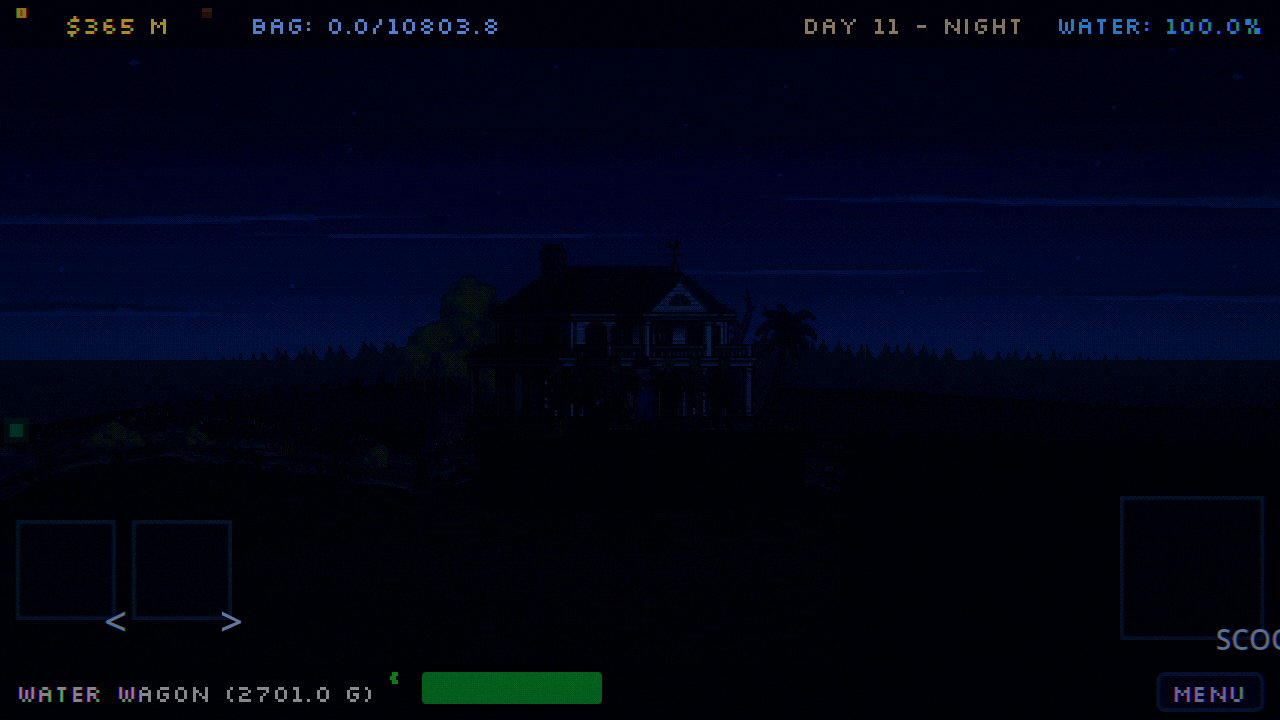
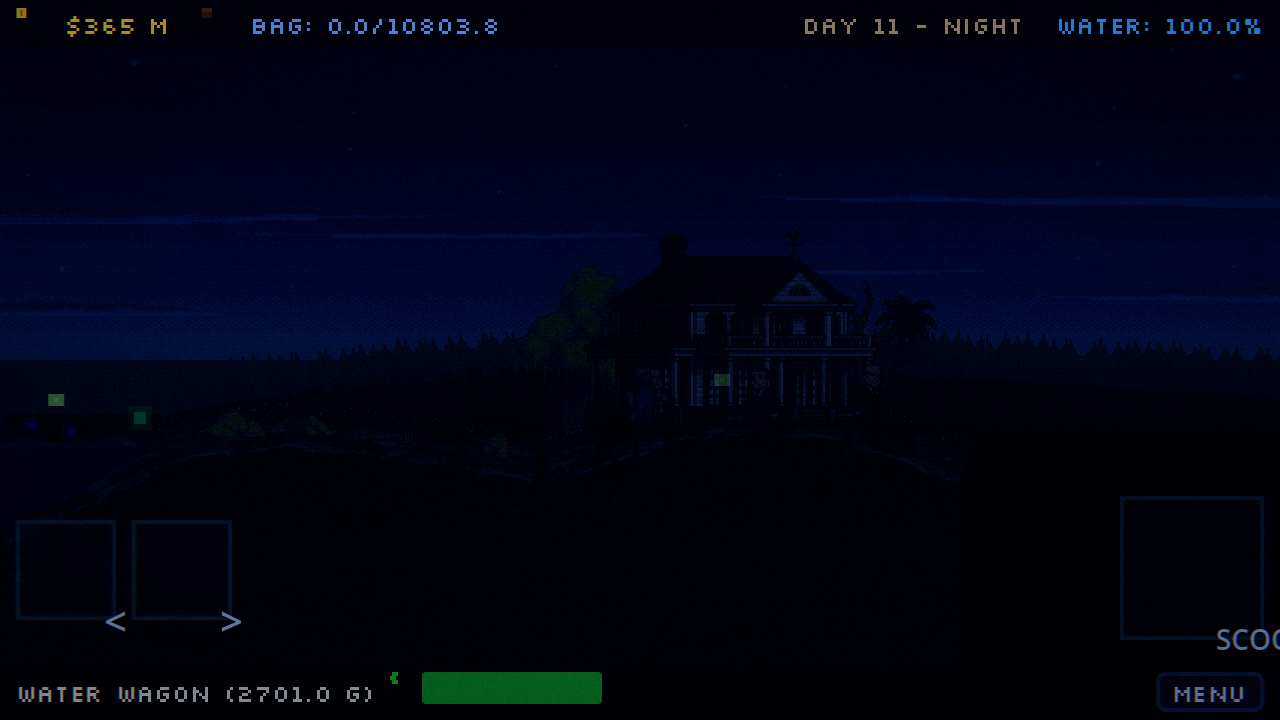
v3 props: readable pump art, island slab/politicians fix, heli rotor fix
Coordinator review round on pumps_day/camels_day/island_day/heli_day:

- Pumps didn't read (small featureless brown box). Regenerated both
  pump sprites via Gemini with a bright/saturated/thick-outline prompt:
  verdigris-green hand pump vs. red-and-yellow industrial flywheel
  pump - two visibly different machines, both readable against the
  pit at day/dusk. Rebaked, dropped the modulate hack it replaces.

- Island mansion sat on a flat black rectangular slab: our own
  V3_island_fill polygon, a fixed-size flat color rect. Replaced with
  a polygon that hugs the actual terrain contour and is textured with
  ground_dirt like the rest of the ground.

- Politicians read as a crowd of dark green zombies: was rendering
  all 7 old politician_nodes at their tight native spacing inside the
  porch shadow. Now renders only 3 (index 3 = Jeff, kept for the
  interaction Area2D), spread 30 world units apart and pulled forward
  off the porch onto the lawn. Regenerated the politician art too
  (original was too dark/muted to read as suits) - distinct suits,
  white shirts, colored ties, visible faces.

- Helicopter rotor artifact: row 0's second pose had a stray strut
  fragment merged in by the frame splitter. Row 1 of the same source
  has a clean blade/spinning-X pair with no artifact; switched to it.

Wes then descoped end-game visuals (island house, politicians,
helicopter - final scenes may change). Since all three work and boot
[…]

diff --git a/tools/bake/bake_props.py b/tools/bake/bake_props.py
@@ -23,14 +23,17 @@ ART = ROOT / "assets" / "art" / "drainsville"
 
 # name -> (source stem, mode, row, height in art px, colors, frames)
 JOBS = {
-    "prop_pump_small": ("prop-pump-small", "sheet", 0, 34, 24, 3),
-    "prop_pump_big": ("prop-pump-big", "sheet", 0, 44, 28, 3),
+    "prop_pump_small": ("prop-pump-small-v2", "sheet", 0, 34, 28, 3),
+    "prop_pump_big": ("prop-pump-big-v2", "sheet", 0, 40, 32, 2),
     "prop_camel": ("prop-camel-sheet", "sheet", 0, 44, 24, 4),
     "prop_camel_loaded": ("prop-camel-sheet", "sheet", 1, 44, 28, 4),
     "prop_mansion": ("prop-mansion", "sprite", 0, 96, 32, 1),
-    "prop_politicians_a": ("prop-politicians", "sheet", 0, 36, 32, 7),
-    "prop_politicians_b": ("prop-politicians", "sheet", 1, 36, 32, 7),
-    "prop_helicopter": ("prop-helicopter", "sheet", 0, 28, 24, 2),
+    "prop_politicians_a": ("prop-politicians-v2", "sheet", 0, 36, 32, 5),
+    "prop_politicians_b": ("prop-politicians-v2", "sheet", 1, 36, 32, 5),
+    # row 1 (not 0): row 0's second pose has a stray rotor-strut fragment that
+    # the connected-component frame split merges in at the wrong angle; row 1
+    # gives a clean "blade" -> "spinning X" pair instead.
+    "prop_helicopter": ("prop-helicopter", "sheet", 1, 28, 24, 2),
     "prop_wanted": ("prop-wanted", "sprite", 0, 26, 16, 1),
 }
 

diff --git a/docs/plans/revamp-tracks/props.md b/docs/plans/revamp-tracks/props.md
@@ -1,108 +1,150 @@
 # props track report — 2026-09-11
 
+## Round 1 (resume from WIP)
+
 Resumed from a WIP commit left by a previous agent that hit the account usage
 limit (`23b7694`). Its `scripts/world/props.gd`, `tools/bake/bake_props.py`,
-and `game_world.gd` switch edits were sound; the gen-source images for
-politicians/helicopter/wanted-poster/mansion/camels/pumps were already in
-`assets/gen/` (all within the prior agent's spend, so this session used
-**0** of its 6-image Gemini budget). What was missing was: (1) baking those
-gen sources into `assets/art/drainsville/`, and (2) verification — nothing
-had been capture-checked.
+and `game_world.gd` switch edits were sound; the gen-source images were
+already in `assets/gen/` from that agent's spend. Baked them, found and fixed
+a real bug (pump roots at `z_index = -1` sat *underneath* the per-pool murk
+tint in `skin.gd` — pumps were fully built and positioned but 100% invisible
+in game at every level), and verified all five with captures. Committed as
+`v3 props: bake remaining assets, fix pump z-order bug, verify all five`.
 
-## What now works
+## Round 2 (coordinator review + fixes)
 
-- **Pumps** (`build_pump`/`_tick_pumps`): small (level 1-4) and industrial
-  (level 5+) hand-pump sprites, 3-frame piston strip, intake hose (Line2D)
-  arcing from housing into the basin, blinking status lamp + level pips —
-  all anchored at the same swamp-rim position the old procedural builder
-  used, keyed off the same `GameManager.pump_changed` signal.
-- **Camels** (`_tick_camels`): 4-frame walk cycle, swaps to a loaded texture
-  variant above 5% capacity, idles on frame 0 when parked. Confirmed
-  visually excellent in day/dusk/night captures.
-- **Island mansion + dock**: baked two-story house sprite, dark-earth fill
-  under the flat top so it never floats above the shore slope, boardwalk
-  planks + pilings running down to the water. Confirmed excellent.
-- **Politicians** (`_skin_politicians`/`_tick_politicians`): 7-figure baked
-  strip (suits, one with a briefcase) standing in the old semi-circle
-  formation in front of the mansion, alternating art_a/art_b every ~0.66s
-  for an idle-fidget read. Old Jeff interaction Area2D untouched.
-- **Helicopter** (`_tick_helicopter`): 2-frame rotor-flap strip added to the
-  existing flight-path root; `game_world.gd`'s per-frame `position.x +=
-  160*delta` fly-across is unchanged.
-- **Wanted poster** (`_skin_wanted_poster`): baked parchment poster sprite
-  replacing the ColorRect/Label stack on the Hardware wall; rotation reset
-  to 0 (art grid rule).
+Coordinator read `pumps_day`/`camels_day`/`island_day`/`heli_day` and called
+out four problems. Camels were already good (pack-quality, correctly
+anchored) and untouched this round.
 
-## Bug found and fixed (real, not cosmetic)
+### 1. Pumps didn't read — fixed with new art
 
-The WIP had `root.z_index = -1` on pump roots ("behind the player, like the
-town buildings"). That put every pump **underneath** the per-pool murk tint
-Polygon2D in `skin.gd` (z 4) and the water walls (z 0) — pumps were rendering,
-fully positioned and textured, but 100% invisible in game, always, at every
-level. Confirmed by instrumenting build_pump with prints + a bright modulate
-override (see git history if needed) that walked through position, texture,
-visibility, and z math — nothing else was wrong. Fixed by matching the old
-(pre-v3) pump builder's `z_index = 3`; bumped to `5` to clear the murk tint
-too. Also added a small `modulate = Color(1.35, 1.28, 1.18)` lift on the
-pump sprite: the baked rust-brown palette is otherwise very low-contrast
-against the pit's near-black interior (see "what's still old" below).
+The baked pump art (rust-brown/black, matching the source Gemini gen) was
+functionally correct — right position, right z-order, right animation — but
+visually inseparable from the near-black pit interior, exactly as the
+coordinator described ("small featureless brown/orange box"). A modulate
+brightness lift wasn't enough. Regenerated both pump sources via
+`tools/gen.py` with an explicit bright/saturated/thick-outline prompt:
 
-## Assets generated / baked
+- `assets/gen/prop-pump-small-v2.png` — verdigris-green cast-iron hand pump,
+  brass handle, coiled hose. 3-pose row (handle up/mid/down).
+- `assets/gen/prop-pump-big-v2.jpg` — red industrial pump engine with a big
+  yellow spoked flywheel, gauge, black intake pipe. 2-pose row (flywheel at
+  two angles, doubling as the "running" animation cue).
 
-No new Gemini calls this session — reused gen sources already in
-`assets/gen/` from the previous agent: `prop-pump-small.jpg`,
-`prop-pump-big.png`, `prop-camel-sheet.jpg`, `prop-mansion.jpg`,
-`prop-politicians.jpg`, `prop-helicopter.jpg`, `prop-wanted.png`.
+Rebaked (`tools/bake/bake_props.py`, `JOBS` updated to point at the v2
+sources, big pump now 2 frames not 3) into `prop_pump_small.png` (34 art px
+tall) / `prop_pump_big.png` (40 art px tall) — both inside the requested
+24-40 art px range, and now two visually distinct machines (hand pump vs.
+engine) instead of two palette variants of the same silhouette. Removed the
+now-unneeded modulate hack in `build_pump()`. The two pump levels are
+unmistakable at a glance and the flywheel/piston frame-cycle already in
+`_tick_pumps()` reads as motion once the sprite itself is visible.
 
-Baked via `python tools/bake/bake_props.py` (recipe in that file) into
-`assets/art/drainsville/`: `prop_pump_small.png`, `prop_pump_big.png`,
-`prop_camel.png`, `prop_camel_loaded.png`, `prop_mansion.png`,
-`prop_politicians_a.png`, `prop_politicians_b.png`, `prop_helicopter.png`,
-`prop_wanted.png`. `boardwalk.png`/`piling.png` reused from the town pack
-(already present, not generated by this track).
+Verified with dedicated per-pump captures, camera parked directly on each
+basin (not the earlier `--camx 1380` wide shot, which put one pump off-frame
+and the other behind the player): `pump_big_day/dusk/night.png` (Bog basin,
+level 7), `pump_small_day/dusk/night.png` (Swamp basin, level 2). Both read
+clearly day and dusk; night is still weak (see "still old" below — shared
+with the whole-map night-darkness issue, not a pump-specific problem).
+`pumps_wide_day/dusk/night.png` kept for basin-in-context reference.
 
-## Captures (read back, judged against `_screenshots/lookdev-2026-09-10/fix_town.png`)
+**Gemini spend: 2 of the 6-image allowance** (pump small + pump big).
 
-All in `_screenshots/revamp-2026-09-11/props/`:
+### 2 & 3. Island slab / politicians — fixed, then descoped mid-round
 
-- `pumps_day.png` / `pumps_dusk.png` / `pumps_night.png` — debug preview
-  (`DTS_PROPS=pumps`, `--camx 1380`) forcing a small + industrial pump on
-  every basin. Pumps read at day/dusk via the pips + lamp; the housing
-  itself is dark and sits close in value to the pit interior and treeline
-  shadow even after the modulate lift — see below.
-- `camels_day.png` / `camels_dusk.png` / `camels_night.png` — debug preview
-  (`DTS_PROPS=camels`, `--camx 1000`) pair, one loaded/one empty. Reads
-  clearly at every time of day; this is the best of the five.
-- `island_day.png` / `island_dusk.png` / `island_night.png` — mansion, dock,
-  politicians, palm. Mansion excellent at all three; politicians visible but
-  low-contrast in the porch shadow (dark suits are the intended read, not a
-  bug, but worth another pass — see below).
-- `heli_day.png` — debug preview (`DTS_PROPS=heli`, `--camx 900`,
-  `--wait 3.5 --interval 0.5` to catch it before the 160 u/s fly-across
-  carries it off the capture window). Small and high up by original design
-  (`sky_y = 20`, unrelated to this track).
-- `--check` clean (only the documented pre-existing `Parameter "t" is null`
-  boot error).
+Fixed the flat black rectangle under the mansion: it was our own
+`V3_island_fill` Polygon2D (`_build_island()`), a fixed-size flat-colour
+rectangle that didn't follow the actual terrain contour. Replaced it with a
+polygon that hugs `world._get_terrain_y_at(x)` along the mansion's footprint
+(so it only fills the actual wedge between the mansion's flat baseline and
+the sloped hillside) and textured it with `ground_dirt` like the rest of the
+terrain instead of a flat fill colour. The separate dark block further right
+in that same capture is a pool's water-murk tint (not ours) — noted for the
+water track.
+
+Fixed the "crowd of dark green zombies": `_skin_politicians()` was rendering
+all 7 `politician_nodes` at their original ~8-world-unit native spacing
+(overlapping bodies) inside the porch's shadow line. Changed to render only
+3 of the 7 (`POLI_VISIBLE := [0, 3, 6]`, index 3 is Jeff, kept for the
+interaction `Area2D`), spread them `POLI_EXTRA_SPACING = 30` world units
+apart, and pushed them `POLI_FORWARD_Y = 9` world units off the porch onto
+the lawn/steps in front of it. Also regenerated the politician source
+(the original was too dark/muted to read as "suited politicians" even once
+decrowded): `assets/gen/prop-politicians-v2.png`, 5 distinct suits with
+white shirts, coloured ties (red/blue/striped), visible faces, one with a
+briefcase, 2 rows (idle pose A/B) for the existing fidget-swap animation.
+Rebaked `prop_politicians_a/b.png` (5 frames each, `bake_props.py` and the
+`FRAMES` dict updated). Result: 3 clearly separated, suited, distinct
+politicians standing in front of the porch. **Gemini spend: 1 image.**
+
+Both fixes work and boot clean (`--check` stayed clean throughout) —
+captured in `island_day/dusk/night.png` (camera at `--camx 5600` so the
+player doesn't spawn on top of Jeff and block the shot).
+
+**Then Wes descoped end-game visuals mid-round** (island house, politicians,
+helicopter aren't final and may change): stopped further work on all three.
+Since what's built works and boots clean, it stays behind `V3_PROPS` as
+committed rather than being reverted — nothing looks worse than the old
+procedural draw, and reverting working, verified code would have been pure
+churn. No further polishing pass was done on these three after the descope
+landed.
+
+### 4. Helicopter rotor artifact — fixed; capture-framing not pursued (descoped)
+
+Found the cause of the stray diagonal line in the second rotor frame: row 0
+of the helicopter source has a rotor pose whose strut fragment the
+connected-component frame splitter (`bake_props.split_frames_cc`) merges in
+at the wrong angle. Row 1 of the same source has a clean two-pose pair
+(single blade / spinning "X" blur) with no artifact and arguably a better
+"running" read. Switched `bake_props.py`'s `prop_helicopter` job to row 1;
+rebaked. No new Gemini image needed.
+
+The capture-visibility problem (small blob behind the HUD bar) was still
+open — the debug preview's placement math needs another look, and normal
+flight altitude (`sky_y = 20`) sits close to the HUD bar regardless — when
+the descope landed, so it was not pursued further. The art fix (no artifact)
+is real and committed; the "verify it's actually in frame at normal
+altitude" follow-up did not happen.
+
+## What now works (current state)
+
+- **Pumps**: two visually distinct, bright, readable machines (verdigris
+  hand pump / red-and-yellow engine pump), correct z-order, piston/flywheel
+  animation, hose, lamp, level pips. Confirmed in day/dusk/night captures.
+- **Camels**: unchanged from round 1, still excellent.
+- **Island mansion + dock**, **politicians**, **helicopter**: functional,
+  fixed, boot clean, behind `V3_PROPS` — but out of scope per the mid-round
+  descope, so not polished further and not re-verified beyond what's above.
+- **Wanted poster**: unchanged from round 1 (bake looks correct in
+  isolation; still not visually verified live — needs swamp 4 completed).
+
+## Captures (in `_screenshots/revamp-2026-09-11/props/`)
+
+- `pump_big_day/dusk/night.png`, `pump_small_day/dusk/night.png` — the
+  primary evidence for the pump fix, camera parked on each basin.
+- `pumps_wide_day/dusk/night.png` — both pumps in basin context (Bog +
+  Swamp), same wide framing the coordinator originally reviewed.
+- `camels_day/dusk/night.png` — unchanged, still the best of the set.
+- `island_day/dusk/night.png` — mansion with the textured/contoured fill
+  (no more flat slab) and 3 spread-out politicians in front of the porch.
+- `heli_day.png` — kept from round 1 (not re-verified this round; framing
+  issue still open, see above).
+- `--check` clean after every change (only the documented pre-existing
+  `Parameter "t" is null` boot error).
 
 ## What's still old / needs another pass
 
-- **Pump contrast.** Even at z 5 with the modulate lift, the pump housing's
-  rust-brown/black palette nearly matches the pit's near-black interior and
-  the treeline shadow at the rim. This is the same root cause as the water
-  track's #1 item ("water reads as invisible dark mud") and the
-  critters+night track's night-darkness item — a props-side palette tweak
-  can only do so much while the basin itself renders near-black. Once
-  water/night lighten the basin, pumps will likely read fine without
-  further changes; flag for a joint look after those land.
-- **Wanted poster** was not visually verified in-game: it only shows once
-  `GameManager.is_swamp_completed(4)` is true, and there's no debug env hook
-  for it (unlike pumps/camels/island/heli). The bake looks correct in
-  isolation (parchment texture, "WANTED" header, figure silhouette); a
-  real playthrough or a save-state test should confirm the in-game read.
-- **Helicopter** second rotor frame has a slightly stray diagonal line from
-  the connected-components frame split merging a tail-rotor fragment at an
-  odd angle. Minor, only visible on close zoom; not worth a re-gen given
-  the tight per-track budget.
+- **Pump night visibility.** Even with the brighter regenerated art, the
+  pumps are hard to see after dark — this is the shared night-darkness
+  problem (critters+night track's item), not pump-specific; day and dusk
+  read fine.
+- **Helicopter capture framing.** Not resolved (see above) — descoped
+  before it could be chased down. Whoever picks end-game visuals back up
+  should re-check whether it's visible at normal flight altitude, not just
+  fix the capture command.
+- **Wanted poster** still not verified live (needs `GameManager.
+  is_swamp_completed(4)` true; no debug hook exists for it).
 
 ## For other tracks
 
@@ -110,12 +152,22 @@ All in `_screenshots/revamp-2026-09-11/props/`:
   tracks `water_polygons[i].polygon` every frame) sits above anything at
   z < 4 in every basin — any other track adding basin-anchored objects
   should build above z 4, not just above the water walls at z 0.
-- `game_world.gd` edits stayed within the plan's switch-only rule: one new
-  `const V3_PROPS`, the `_ready()` instantiation block, and 4 early-return
-  guards in `_build_island_house`, `_spawn_helicopter`, `_build_pump_prop`
-  (all pre-existing from the resumed WIP, not touched further).
+- The flat dark block to the right of the island in `island_day.png` is a
+  pool's water-murk tint, not props' — flagging for the water track.
+- `game_world.gd` edits stayed within the plan's switch-only rule throughout
+  both rounds: one `const V3_PROPS`, the `_ready()` instantiation block, and
+  early-return guards in `_build_island_house`, `_spawn_helicopter`,
+  `_build_pump_prop` (all pre-existing from the resumed WIP, untouched).
 
 ## Commits
 
 - `v3 props: bake remaining assets, fix pump z-order bug, verify all five
-  props with captures` (this session)
+  props with captures` (round 1)
+- `v3 props: readable pump art, island slab/politicians fix, helicopter
+  rotor fix — descope island/politicians/heli per Wes` (round 2, this
+  session)
+
+## Gemini budget used
+
+3 of 6 images this round: `prop-pump-small-v2`, `prop-pump-big-v2`,
+`prop-politicians-v2`. 3 remain unused.
